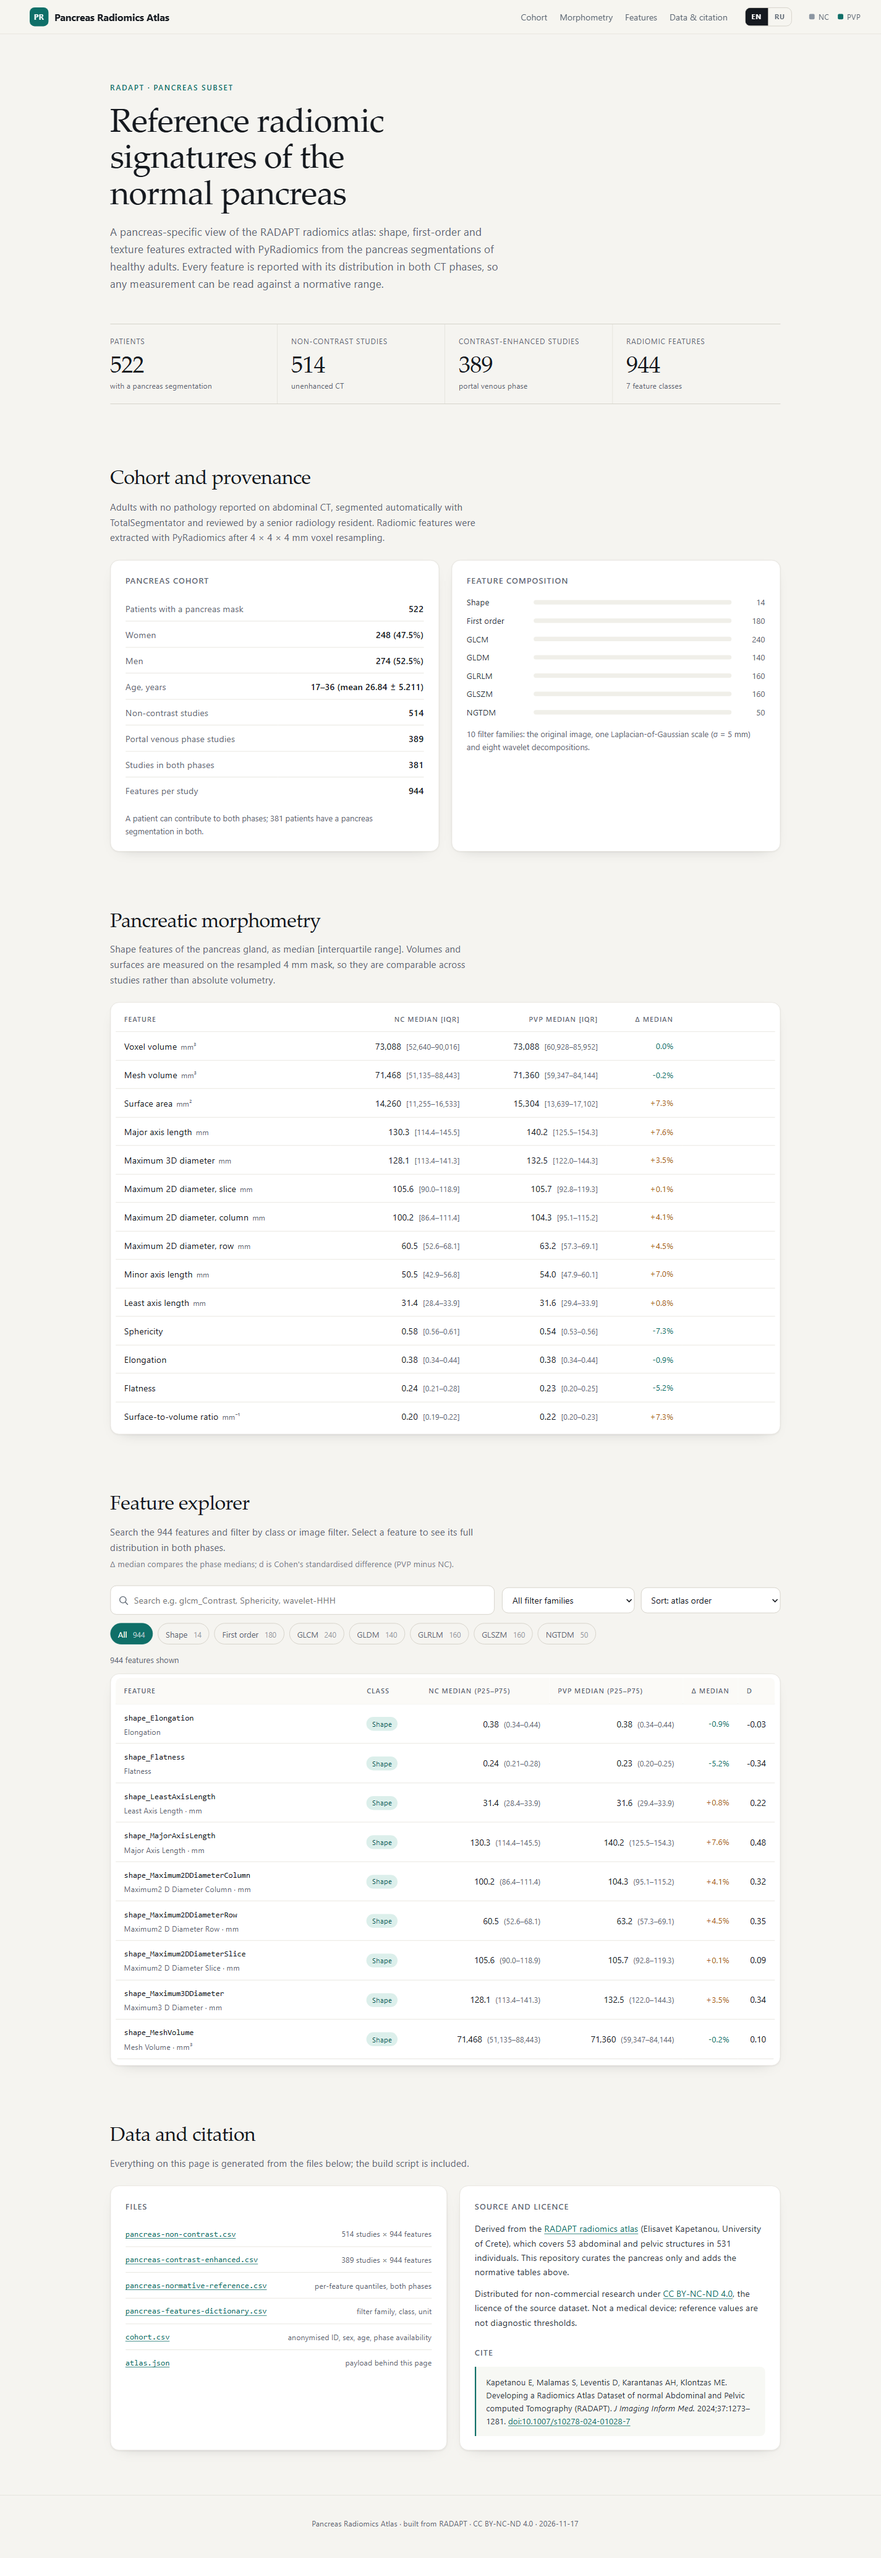
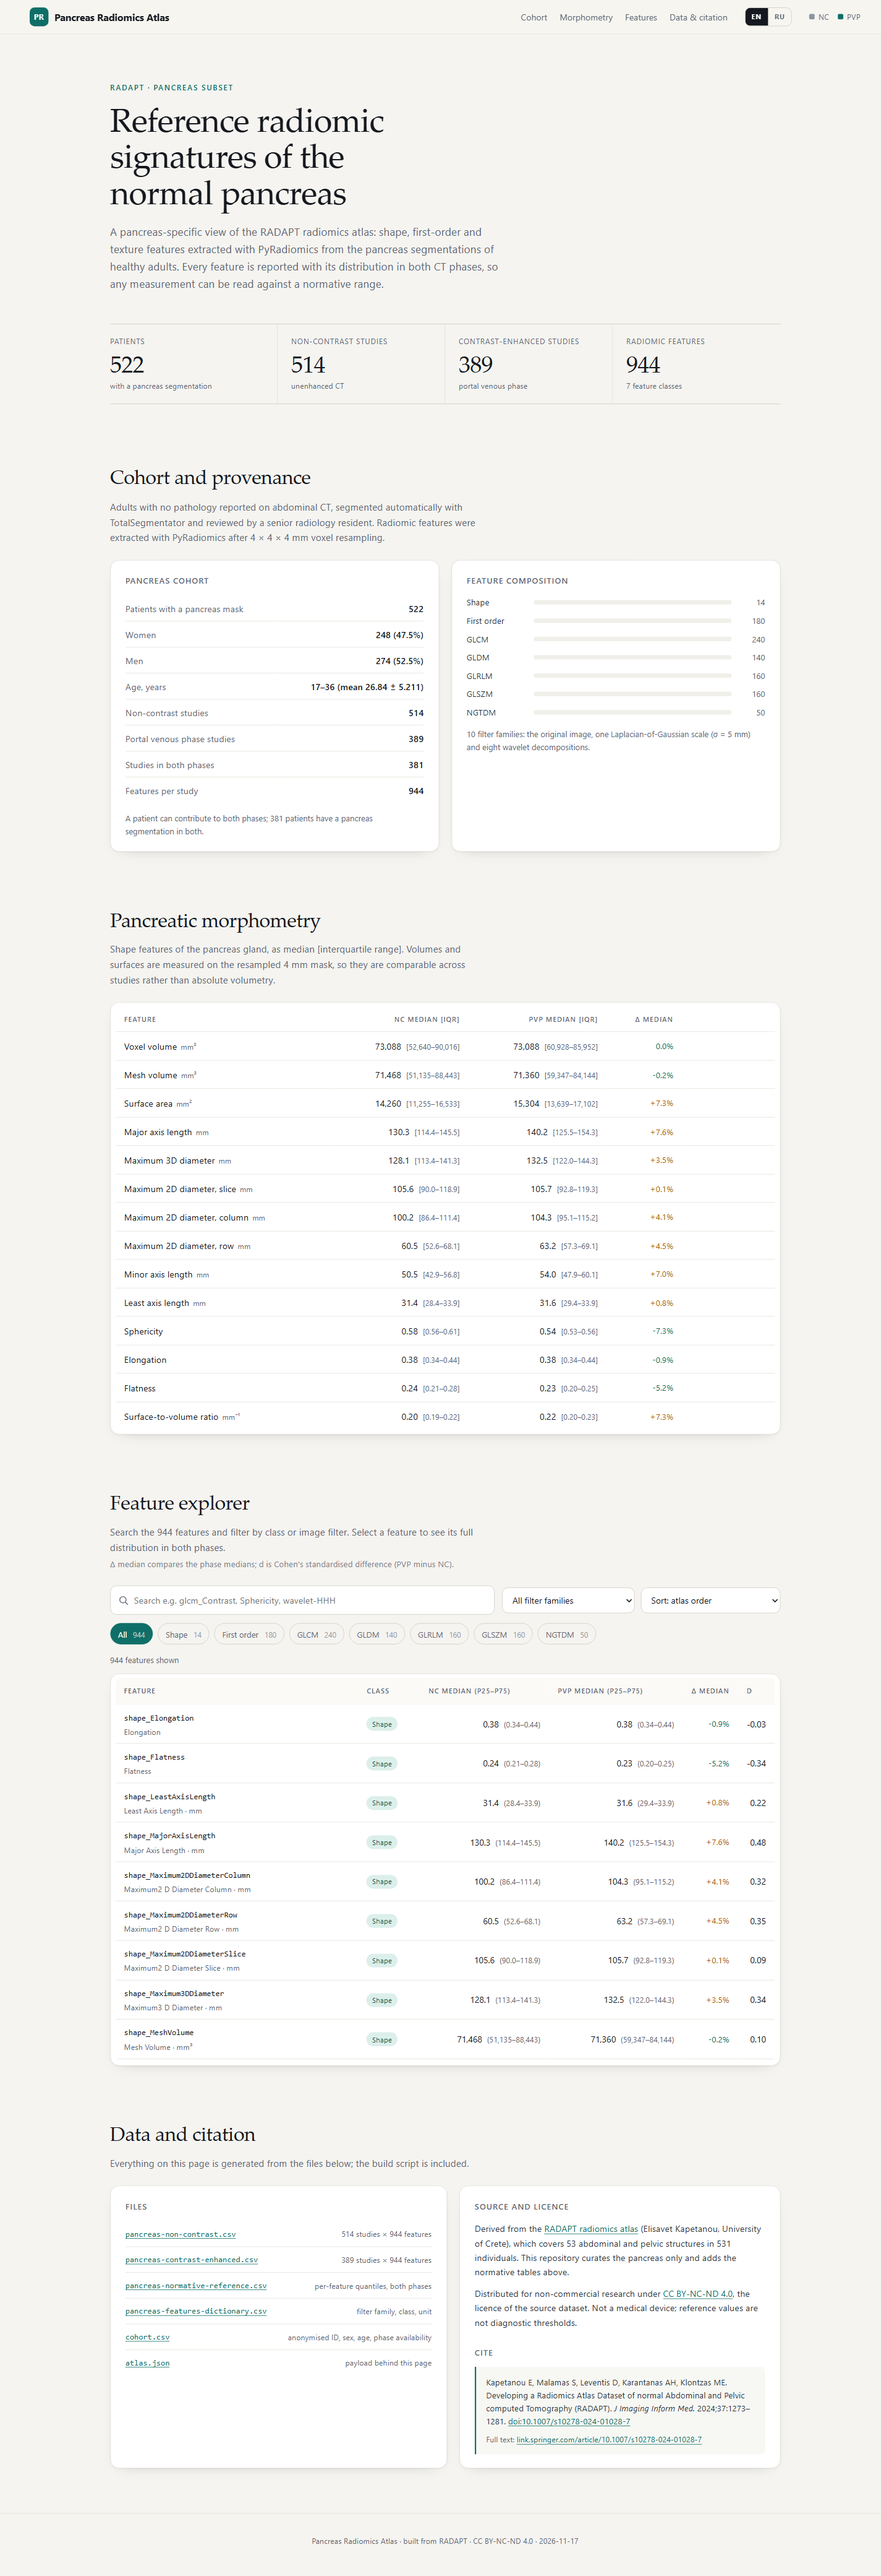
Link the article from the atlas page and align README tables
The citation block on the page now points to the Springer full text,
localised as "Full text" / "Полный текст". The repository layout tables
list every tracked file instead of a single assets row.

Generated with Codebuff 🤖

diff --git a/assets/i18n.js b/assets/i18n.js
@@ -104,6 +104,7 @@ window.ATLAS_I18N = {
     'data.licenseText':
       'Distributed for non-commercial research under <a href="LICENSE.md">CC&nbsp;BY-NC-ND&nbsp;4.0</a>, the licence of the source dataset. Not a medical device; reference values are not diagnostic thresholds.',
     'data.citeTitle': 'Cite',
+    'data.fullText': 'Full text',
     'd.nc': '514 studies × 944 features',
     'd.pvp': '389 studies × 944 features',
     'd.ref': 'per-feature quantiles, both phases',
@@ -241,6 +242,7 @@ window.ATLAS_I18N = {
     'data.licenseText':
       'Распространяется для некоммерческих исследований под лицензией <a href="LICENSE.md">CC&nbsp;BY-NC-ND&nbsp;4.0</a> — лицензией исходного набора. Не является медицинским изделием; референсные значения не являются диагностическими порогами.',
     'data.citeTitle': 'Цитирование',
+    'data.fullText': 'Полный текст',
     'd.nc': '514 исследований × 944 признака',
     'd.pvp': '389 исследований × 944 признака',
     'd.ref': 'квантили по каждому признаку, обе фазы',

diff --git a/index.html b/index.html
@@ -212,6 +212,10 @@
           Atlas Dataset of normal Abdominal and Pelvic computed Tomography (RADAPT).
           <em>J Imaging Inform Med.</em> 2024;37:1273–1281.
           <a href="https://doi.org/10.1007/s10278-024-01028-7">doi:10.1007/s10278-024-01028-7</a>
+          <span class="cite-fulltext">
+            <span data-i18n="data.fullText">Full text</span>:
+            <a href="https://link.springer.com/article/10.1007/s10278-024-01028-7">link.springer.com/article/10.1007/s10278-024-01028-7</a>
+          </span>
         </blockquote>
       </div>
     </div>

diff --git a/assets/styles.css b/assets/styles.css
@@ -570,6 +570,14 @@ select:focus { outline: none; border-color: var(--teal); box-shadow: 0 0 0 3px v
   line-height: 1.55;
 }
 
+.cite-fulltext {
+  display: block;
+  margin-top: 10px;
+  font-size: 12.5px;
+  color: var(--muted);
+  overflow-wrap: anywhere;
+}
+
 .footer {
   border-top: 1px solid var(--line);
   padding: 22px clamp(18px, 4vw, 48px) 34px;

diff --git a/README_RU.md b/README_RU.md
@@ -54,7 +54,13 @@ python3 -m http.server 8000     # из корня репозитория
 
 | Путь | Содержимое |
 |------|------------|
-| `index.html`, `assets/` | страница атласа, стили, скрипт и его JSON-данные |
+| `index.html` | страница атласа: когорта, морфометрия, обзор признаков, данные и цитирование |
+| `assets/styles.css` | оформление страницы |
+| `assets/app.js` | логика интерфейса: отрисовка, фильтрация, панель признака и гистограмма |
+| `assets/i18n.js` | строки интерфейса на английском и русском |
+| `assets/data/atlas.json` | данные страницы: статистика и бины гистограмм по каждому признаку |
+| `assets/screenshot-en.png` | скриншот страницы, английский интерфейс |
+| `assets/screenshot-ru.png` | скриншот страницы, русский интерфейс |
 | `data/pancreas-non-contrast.csv` | 514 исследований × 944 признака, КТ без контраста |
 | `data/pancreas-contrast-enhanced.csv` | 389 исследований × 944 признака, портально-венозная фаза |
 | `data/pancreas-normative-reference.csv` | референсная статистика по каждому признаку для обеих фаз |
@@ -62,7 +68,12 @@ python3 -m http.server 8000     # из корня репозитория
 | `data/cohort.csv` | анонимный ID, пол, возраст, наличие фаз |
 | `data/README.md` | описание столбцов перечисленных файлов |
 | `scripts/build_atlas.py` | пересобирает все файлы в `data/` и данные для страницы |
+| `scripts/requirements.txt` | зависимости сборки (pandas, numpy, openpyxl) |
+| `.github/workflows/pages.yml` | публикует атлас на GitHub Pages при пуше в основную ветку |
+| `CITATION.cff` | машиночитаемая ссылка на публикацию RADAPT |
+| `README.md`, `README_RU.md` | эта документация на английском и русском |
 | `LICENSE.md` | CC BY-NC-ND 4.0, лицензия исходного набора данных |
+| `.nojekyll`, `.gitignore` | маркер для GitHub Pages; локальные сборки не попадают в git |
 
 ## Морфометрия поджелудочной железы
 

diff --git a/README.md b/README.md
@@ -47,7 +47,13 @@ On GitHub, enable **Settings → Pages → Source: GitHub Actions** and the incl
 
 | Path | Contents |
 |------|----------|
-| `index.html`, `assets/` | the atlas page, stylesheet, script and its JSON payload |
+| `index.html` | the atlas page: cohort summary, morphometry, feature explorer, data and citation |
+| `assets/styles.css` | page styling |
+| `assets/app.js` | front-end logic: rendering, filtering, per-feature drawer and histogram |
+| `assets/i18n.js` | English and Russian interface strings |
+| `assets/data/atlas.json` | payload behind the page: per-feature statistics and histogram bins |
+| `assets/screenshot-en.png` | page screenshot, English interface |
+| `assets/screenshot-ru.png` | page screenshot, Russian interface |
 | `data/pancreas-non-contrast.csv` | 514 studies × 944 features, non-contrast CT |
 | `data/pancreas-contrast-enhanced.csv` | 389 studies × 944 features, portal venous phase |
 | `data/pancreas-normative-reference.csv` | per-feature reference statistics for both phases |
@@ -55,7 +61,12 @@ On GitHub, enable **Settings → Pages → Source: GitHub Actions** and the incl
 | `data/cohort.csv` | anonymised ID, sex, age, phase availability |
 | `data/README.md` | column reference for the files above |
 | `scripts/build_atlas.py` | regenerates every file in `data/` and the site payload |
+| `scripts/requirements.txt` | build dependencies (pandas, numpy, openpyxl) |
+| `.github/workflows/pages.yml` | publishes the atlas to GitHub Pages on pushes to the default branch |
+| `CITATION.cff` | machine-readable citation for the RADAPT publication |
+| `README.md`, `README_RU.md` | this documentation in English and Russian |
 | `LICENSE.md` | CC BY-NC-ND 4.0, inherited from the source dataset |
+| `.nojekyll`, `.gitignore` | GitHub Pages marker; local build artefacts stay untracked |
 
 ## Pancreatic morphometry at a glance
 
